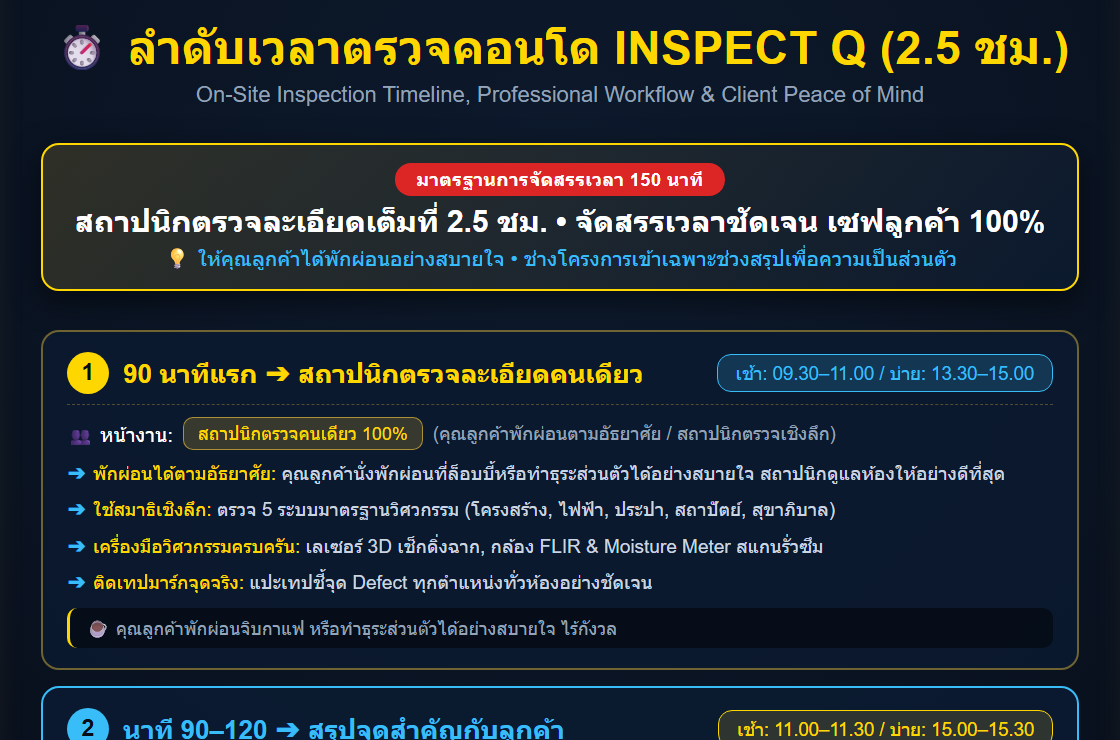
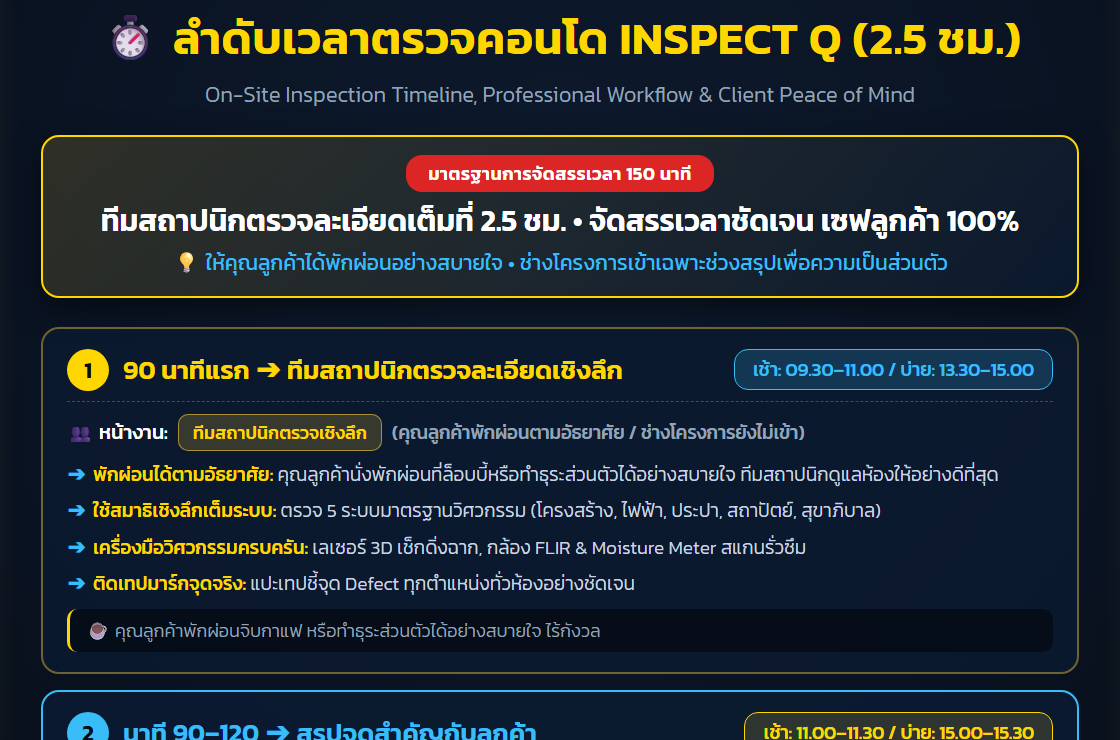
chore: update Card 09 wording to 'ทีมสถาปนิกตรวจเชิงลึก' removing 'คนเดียว'

diff --git a/line.html b/line.html
@@ -689,7 +689,7 @@ https://seemee1234-dev.github.io/seemeinspect/landing.html
     </div>
     <div class="content-box" id="t12" contenteditable="false">🏛 ลำดับเวลาตรวจคอนโด INSPECT Q (2.5 ชม.) ⏱
 
-1⃣ 90 นาทีแรก ➔ สถาปนิกตรวจละเอียดคนเดียว
+1⃣ 90 นาทีแรก ➔ ทีมสถาปนิกตรวจละเอียดเชิงลึก
 • คุณลูกค้าพักผ่อนได้ตามอัธยาศัย หรือทำธุระส่วนตัว
 • สแกน 5 ระบบ, เลเซอร์ 3D, สแกนชื้น, ติดเทปมาร์ก
 
@@ -697,8 +697,8 @@ https://seemee1234-dev.github.io/seemeinspect/landing.html
 • พาลูกค้าเดินดูจุดไฮไลต์ อธิบายจุดต้องแก้ตรงไปตรงมา
 
 3⃣ 30 นาทีสุดท้าย ➔ นัดช่างโครงการเข้าห้อง
-• สถาปนิก + ลูกค้า + ช่างโครงการ เดินดูจุดร่วมกัน
-• สถาปนิกช่วยคุยเคลียร์จุดซ่อมกับช่างให้ตรงหลักช่าง
+• ทีมสถาปนิก + ลูกค้า + ช่างโครงการ เดินดูจุดร่วมกัน
+• ทีมสถาปนิกช่วยเคลียร์จุดซ่อมกับช่างให้ตรงหลักช่าง
 
 📄 หลังตรวจ: สรุปด่วนใน LINE + ส่งเล่ม PDF คมชัด 🤝</div>
   </div>
